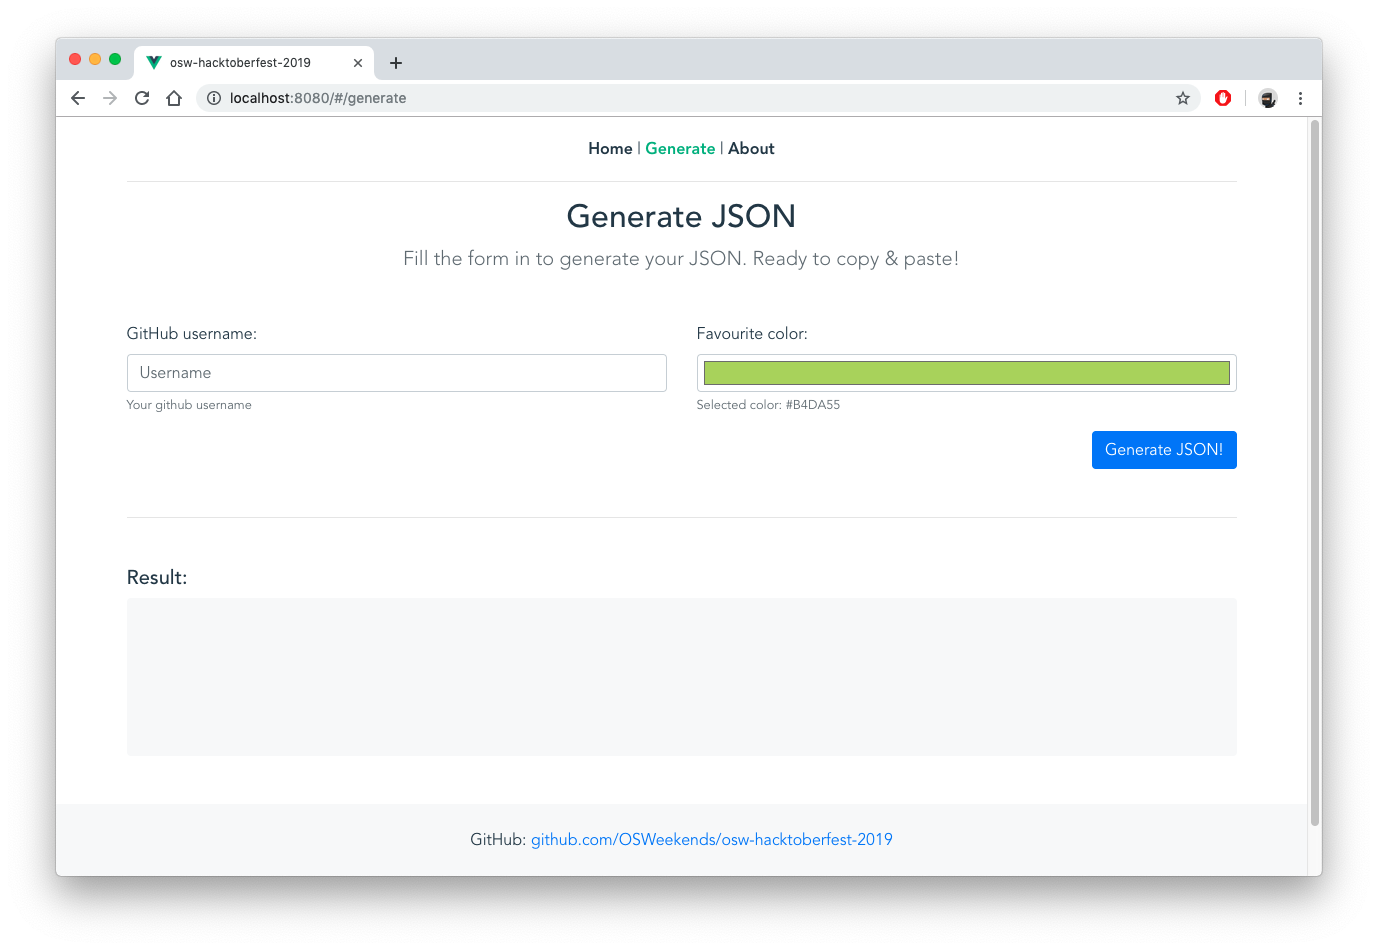
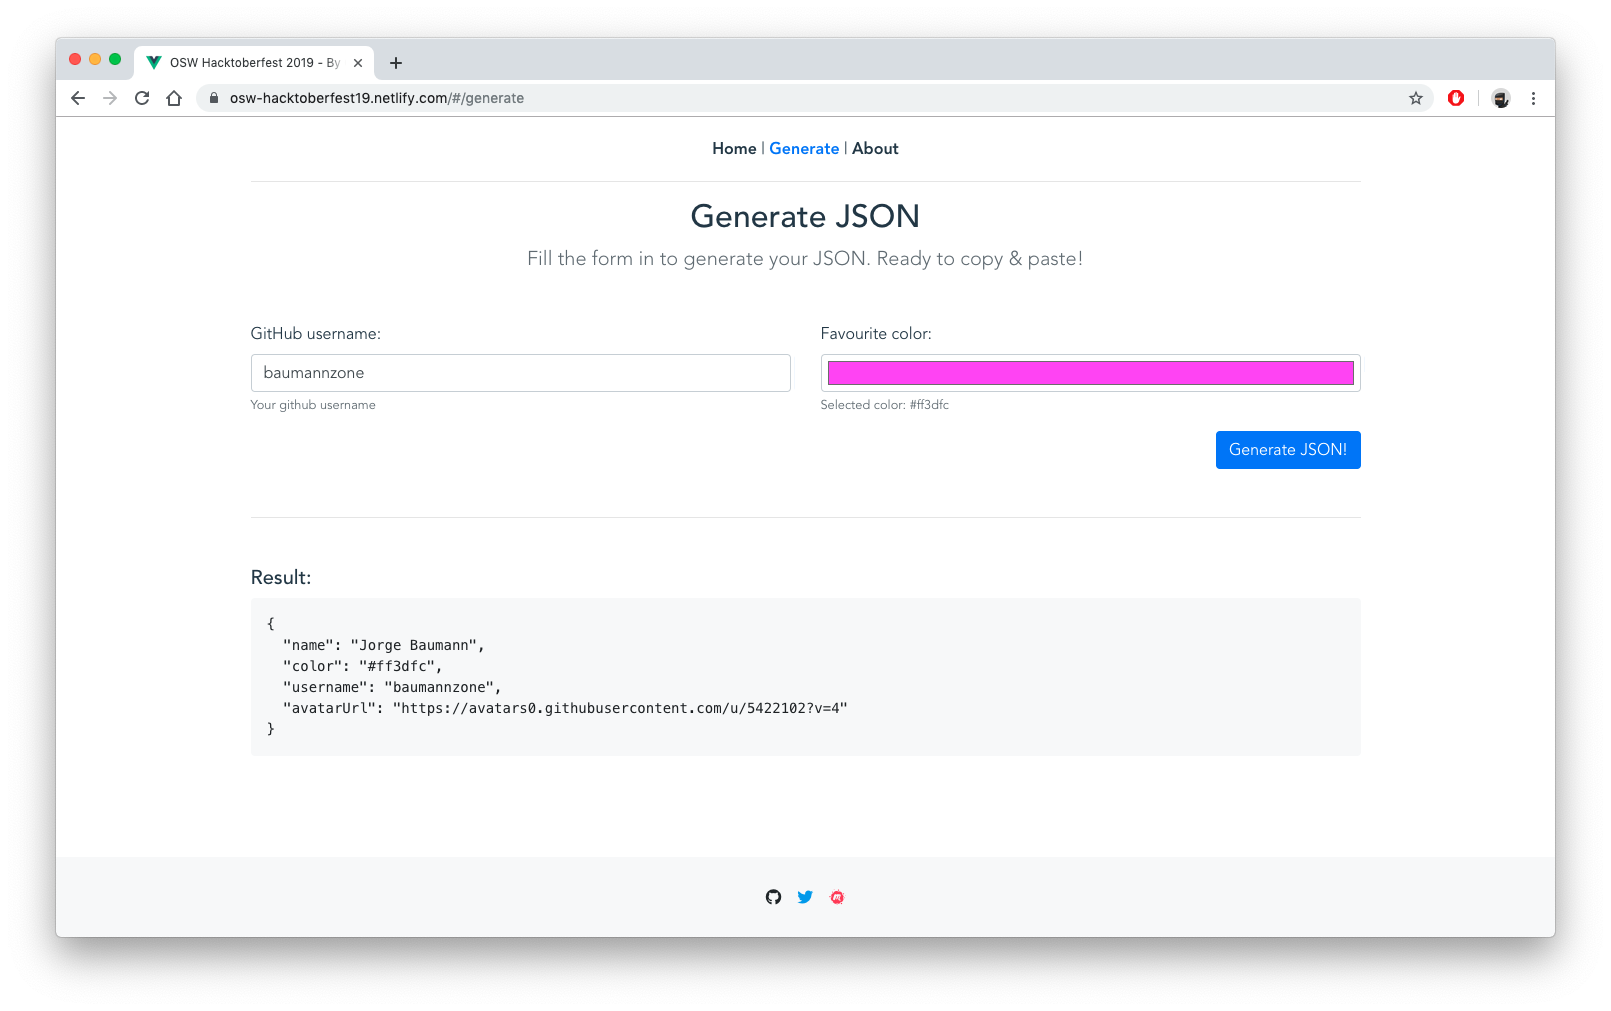
Best readme ever

diff --git a/README.md b/README.md
@@ -1,4 +1,4 @@
-# OSW Hacktoberfest 2019
+# OSW Hacktoberfest 2019 
 
 [![Style](https://img.shields.io/badge/code%20style-standard-brightgreen?style=flat-square)](https://img.shields.io/badge/code%20style-standard-brightgreen?style=flat-square)
 [![PRs Welcome](https://img.shields.io/badge/PRs-welcome-brightgreen.svg?style=flat-square)](https://github.com/OSWeekends/osw-hacktoberfest-2019/pulls)
@@ -8,6 +8,14 @@
 [![All Contributors](https://img.shields.io/badge/all_contributors-3-orange.svg?style=flat-square)](#contributors-)
 [![Code of conduct](https://img.shields.io/badge/code%20of-conduct-ff69b4.svg?style=flat-square)](https://github.com/OSWeekends/osw-hacktoberfest-2019/blob/master/CODE_OF_CONDUCT.md)
 ![GitHub](https://img.shields.io/github/license/OSWeekends/osw-hacktoberfest-2019?color=blue&style=flat-square)
+
+> Contribute by adding yourself to the [`contributors.json`](https://github.com/OSWeekends/osw-hacktoberfest-2019/blob/master/src/assets/contributors.json) file.  
+> Go to the [__generate__](https://osw-hacktoberfest19.netlify.com/#/generate) page and fill the form in to get your data, then paste your copied code at the end of the file 🥳
+
+![img](./src/assets/generate.png)
+
+
+__Congrats!__ You are an awesome contributor! 🎃 🎃 🎃
 
 ## Project setup
 ```
